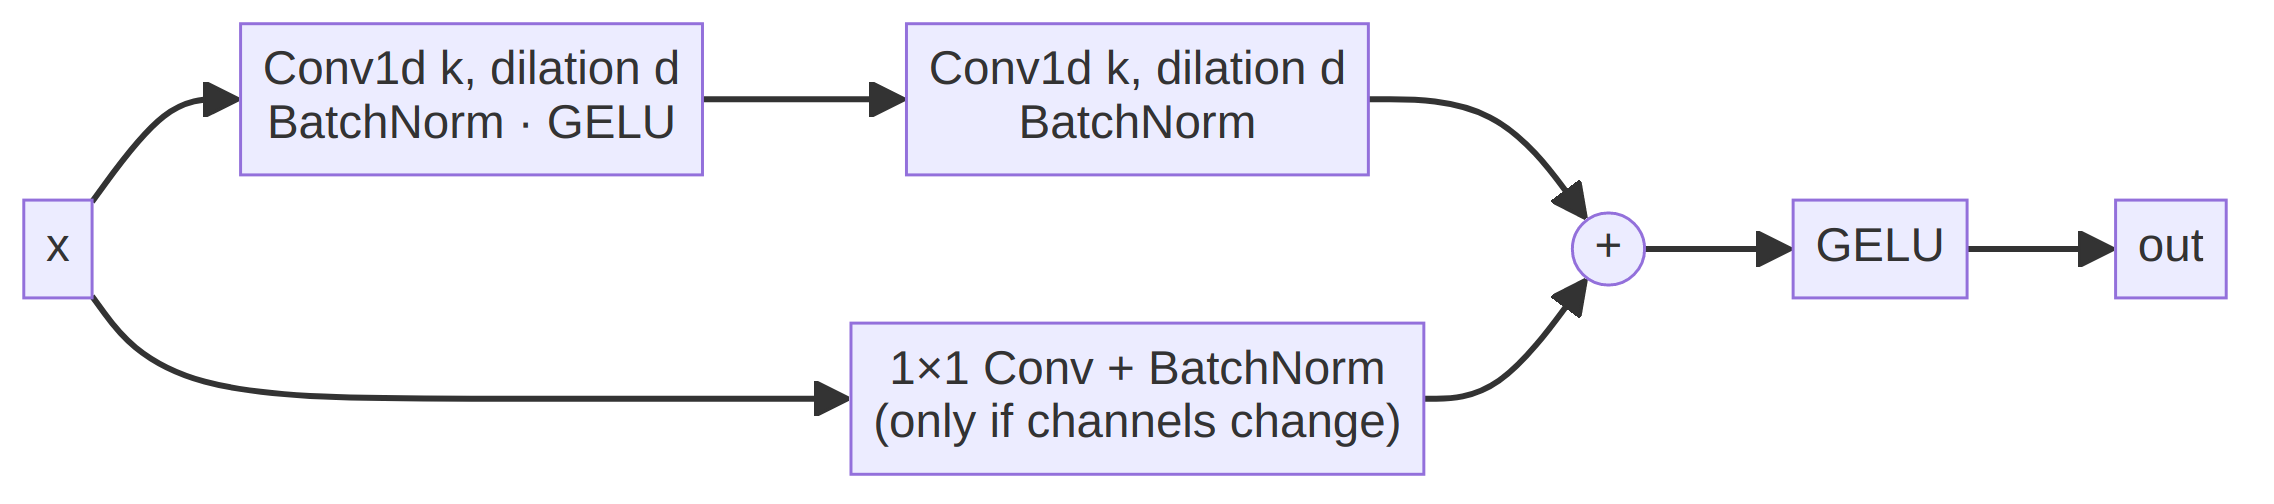
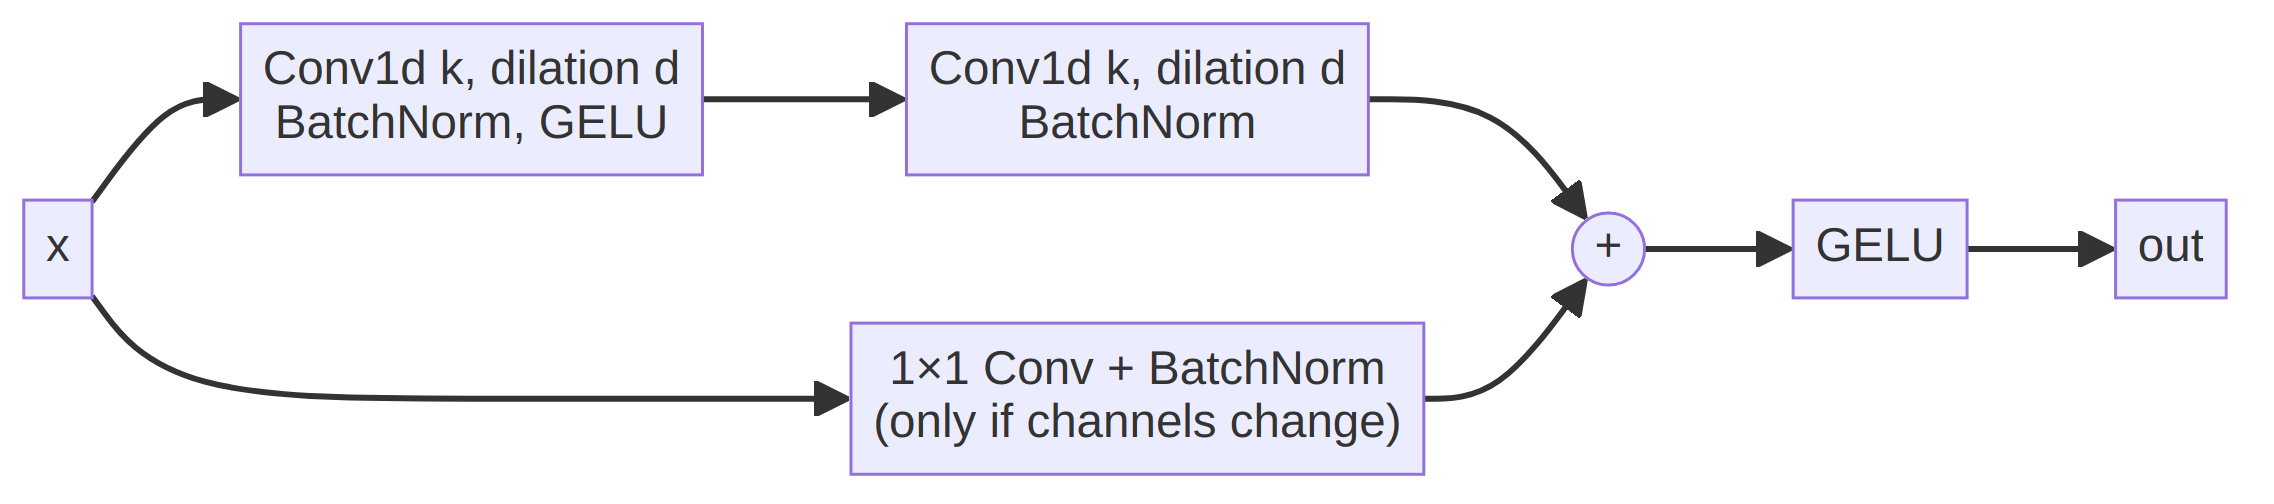
Replace middle-dot separators with commas and pipes across docs, diagrams and GUI

Changed region(s): [[0.0937, 0.2083, 0.3122, 0.2976]]

diff --git a/src/gui.py b/src/gui.py
@@ -163,7 +163,7 @@ class Scope(QWidget):
         p.setPen(QColor(T["muted"]))
         p.setFont(QFont(p.font().family(), 8))
         p.drawText(QRectF(plot.left(), 6, plot.width(), 18), Qt.AlignLeft,
-                   "grey band = injected disturbance   ·   orange = where the model looked   ·   "
+                   "grey band = injected disturbance   |   orange = where the model looked   |   "
                    "tag = model prediction (✓ correct, ✗ wrong)")
 
 
@@ -368,7 +368,7 @@ class MainWindow(QMainWindow):
         if not r or r["cls"] == NORMAL:
             return
         n = sum(r["preds"].values())
-        held = f"held {r['held']:.1f} s · " if r["held"] is not None else ""
+        held = f"held {r['held']:.1f} s, " if r["held"] is not None else ""
         verdict = ", ".join(f"{pretty(k)} ×{v}" for k, v in r["preds"].most_common())
         self.log.insertItem(0, f"{time.strftime('%H:%M:%S')}  {pretty(r['cls'])}: {held}{n} cycle"
                                f"{'s' if n > 1 else ''} → model said {verdict}")

diff --git a/src/make_figures.py b/src/make_figures.py
@@ -120,7 +120,7 @@ def faithfulness():
         ds = "XPQRS" if model.startswith("xpqrs_") else "PQD-16c"
         for method, r in methods.items():
             gap = r["10%"]["drop_top"] - r["10%"]["drop_random"]
-            rows.append((gap, f"{model.removeprefix('xpqrs_')} · {nice[method]}  [{ds}]", ds))
+            rows.append((gap, f"{model.removeprefix('xpqrs_')} | {nice[method]}  [{ds}]", ds))
     rows.sort()
     fig, ax = plt.subplots(figsize=(9, 5))
     ax.barh(range(len(rows)), [r[0] for r in rows], tick_label=[r[1] for r in rows],

diff --git a/docs/ARCHITECTURE.md b/docs/ARCHITECTURE.md
@@ -8,25 +8,25 @@ their `.mmd` sources.
 
 ```mermaid
 flowchart LR
-    subgraph DATA["1 · Data"]
-        A1[("XPQRS<br/>17 classes · 1 cycle")]
-        A2[("PQD-16c<br/>16 classes · 10 cycles")]
+    subgraph DATA["1 | Data"]
+        A1[("XPQRS<br/>17 classes, 1 cycle")]
+        A2[("PQD-16c<br/>16 classes, 10 cycles")]
     end
-    subgraph PREP["2 · Pre-processing  (src/data.py)"]
+    subgraph PREP["2 | Pre-processing  (src/data.py)"]
         B1["stratified split<br/>train / val / test"]
         B2["z-score with<br/>train mean & std only"]
     end
-    subgraph MODEL["3 · Classification"]
+    subgraph MODEL["3 | Classification"]
         C1["ResNet-CAM<br/>(src/models.py)"]
         C2["physics features → Extra-Trees<br/>(src/features.py)"]
     end
-    subgraph XAI["4 · Explanation"]
+    subgraph XAI["4 | Explanation"]
         D1["Integrated Gradients"]
         D2["Class Activation Map"]
         D3["Tree SHAP"]
     end
-    subgraph EVAL["5 · Trust checks"]
-        E1["accuracy · macro-F1<br/>confusion matrix"]
+    subgraph EVAL["5 | Trust checks"]
+        E1["accuracy, macro-F1<br/>confusion matrix"]
         E2["faithfulness<br/>deletion test"]
     end
     F["JSON summary<br/>→ LLM narration"]
@@ -59,7 +59,7 @@ free (Zhou et al. 2016). 455 k parameters.
 
 ```mermaid
 flowchart TB
-    IN["input signal<br/>1 × L<br/>(L = 100 XPQRS · 640 PQD-16c)"]
+    IN["input signal<br/>1 × L<br/>(L = 100 XPQRS, 640 PQD-16c)"]
     S["Conv1d k7, 64 ch → BatchNorm → GELU"]
     R1["Residual block 64→64, k7"]
     P1["MaxPool ÷2  →  L/2"]
@@ -72,7 +72,7 @@ flowchart TB
     DO["Dropout 0.3"]
     FC["Linear 128 → C classes"]
     OUT(["class probabilities"])
-    CAM(["CAM_c(t) = Σ_k w_ck · f_k(t)<br/>upsampled to L"])
+    CAM(["CAM_c(t) = Σ_k w_ck × f_k(t)<br/>upsampled to L"])
 
     IN --> S --> R1 --> P1 --> R2 --> P2 --> R3 --> R4 --> FM --> GAP --> DO --> FC --> OUT
     FM -. "feature maps f_k(t)" .-> CAM
@@ -83,7 +83,7 @@ flowchart TB
 
 ```mermaid
 flowchart LR
-    x["x"] --> c1["Conv1d k, dilation d<br/>BatchNorm · GELU"] --> c2["Conv1d k, dilation d<br/>BatchNorm"] --> add(("+")) --> g["GELU"] --> y["out"]
+    x["x"] --> c1["Conv1d k, dilation d<br/>BatchNorm, GELU"] --> c2["Conv1d k, dilation d<br/>BatchNorm"] --> add(("+")) --> g["GELU"] --> y["out"]
     x --> sk["1×1 Conv + BatchNorm<br/>(only if channels change)"] --> add
 ```
 
@@ -117,7 +117,7 @@ like an engineer's note: per-cycle RMS, minimum/maximum sliding RMS, time below
 | Batch | 64, gradient-norm clip 1.0 |
 | Loss | cross-entropy |
 | Model selection | best validation accuracy (ties → lower validation loss) |
-| Epochs / patience | PQD-16c 70 / 25 · XPQRS 40 / 15 |
+| Epochs / patience | PQD-16c 70 / 25, XPQRS 40 / 15 |
 | Threads | CPU only (4 threads) — no GPU needed |
 
 The test split is touched exactly once, after selection.
@@ -165,5 +165,5 @@ evidence.
 ├── dataset/                  XPQRS + PQD-16c CSVs, README
 ├── models/                   final checkpoints (+ legacy/ first-iteration ones)
 ├── outputs/benchmark/        results.jsonl, faithfulness.json
-└── docs/                     ARCHITECTURE · RESULTS · XAI · GUI, figures/, diagrams/, papers/
+└── docs/                     ARCHITECTURE, RESULTS, XAI, GUI, figures/, diagrams/, papers/
 ```

diff --git a/docs/GUI.md b/docs/GUI.md
@@ -41,7 +41,7 @@ python src/gui.py --speed 3       # slower playback (cycles per second, 1-25)
 |---|---|
 | Disturbance buttons (8 single + 8 combined) | hold to inject that class |
 | Speed slider | playback speed, 1–25 cycles per second |
-| Explanation menu | Integrated Gradients · Class Activation Map · none |
+| Explanation menu | Integrated Gradients, Class Activation Map, none |
 | Pause / Resume | freeze the scope to inspect a cycle |
 | ☾ Dark mode / ☀ Light mode | switch colour theme; the choice is remembered for the next start |
 
@@ -102,12 +102,12 @@ single cycles.
 
 ```mermaid
 flowchart LR
-    BTN["disturbance buttons<br/>pressed / released"] -->|press · release| ST["DisturbanceStream<br/>(src/stream.py)"]
+    BTN["disturbance buttons<br/>pressed / released"] -->|press, release| ST["DisturbanceStream<br/>(src/stream.py)"]
     BANK[("XPQRS test split<br/>zero-crossing synced<br/>one bank per class")] --> ST
-    TICK(["QTimer · every 30 ms"]) --> MW["MainWindow.tick<br/>(src/gui.py)"]
+    TICK(["QTimer, every 30 ms"]) --> MW["MainWindow.tick<br/>(src/gui.py)"]
     MW -->|"need a new cycle"| ST
     ST -->|"Cycle: 100 samples + true class"| LC["LiveClassifier<br/>ResNet-CAM + IG + CAM"]
-    LC -->|"prediction · top-3 · attributions"| MW
+    LC -->|"prediction, top-3, attributions"| MW
     MW -->|"reveal N samples / frame"| SC["Scope<br/>(QPainter oscilloscope)"]
     MW -->|"cycle finished"| PP["Prediction panel"]
     MW -->|"run of same class ends"| LOG["Event log"]

diff --git a/README.md b/README.md
@@ -8,7 +8,7 @@ explanations can be trusted**.
 | | XPQRS (17 classes) | PQD-16c (16 classes) |
 |---|---|---|
 | **ResNet-CAM test accuracy** | **98.3 %** (macro-F1 0.983) | **88.8 %** (macro-F1 0.880) |
-| Best baseline | 98.4 % · CNN-Complex, 3× the parameters | 87.8 % · CNN-Complex |
+| Best baseline | 98.4 %, CNN-Complex, 3× the parameters | 87.8 %, CNN-Complex |
 | Explanation | Class Activation Map + Integrated Gradients | same + Tree SHAP on physics features |
 
 * **One small, explainable model wins.** A 455 k-parameter ResNet with a
@@ -28,7 +28,7 @@ explanations can be trusted**.
 
 ```mermaid
 flowchart LR
-    A[("voltage waveform<br/>XPQRS · PQD-16c")] --> B["split + z-score<br/>(train stats only)"]
+    A[("voltage waveform<br/>XPQRS, PQD-16c")] --> B["split + z-score<br/>(train stats only)"]
     B --> C["ResNet-CAM<br/>classifier"]
     B --> C2["48 physics features<br/>→ Extra-Trees"]
     C --> D["CAM + Integrated<br/>Gradients"]
@@ -155,7 +155,7 @@ To use a newly trained model with `explain.py`, pass `--ckpt <path>`.
 ├── models/                   resnet_cam_xpqrs.pth, resnet_cam_pqd16.pth,
 │                             resnet_cam_xpqrs_sync.pth (GUI), legacy/
 ├── outputs/benchmark/        results.jsonl, faithfulness.json
-└── docs/                     ARCHITECTURE · RESULTS · XAI · GUI, figures/, diagrams/, papers/
+└── docs/                     ARCHITECTURE, RESULTS, XAI, GUI, figures/, diagrams/, papers/
 ```
 
 ## Documentation

diff --git a/docs/XAI.md b/docs/XAI.md
@@ -44,15 +44,15 @@ explanation identified evidence the model really uses. 160 test signals
 
 ![faithfulness](figures/faithfulness.png)
 
-| Model · method | gap @5 % | gap @10 % | gap @20 % |
+| Model, method | gap @5 % | gap @10 % | gap @20 % |
 |---|---|---|---|
-| feat_extra_trees · Tree SHAP (PQD-16c) | **0.27** | **0.38** | **0.37** |
-| cnn_res_bilstm · IG (PQD-16c) | 0.13 | 0.19 | 0.32 |
-| cnn_complex · IG (PQD-16c) | 0.10 | 0.15 | 0.28 |
-| resnet_cam · IG (PQD-16c) | 0.10 | 0.11 | 0.20 |
-| resnet_cam · CAM (PQD-16c) | 0.07 | 0.11 | 0.16 |
-| resnet_cam · IG (XPQRS) | 0.06 | 0.07 | 0.10 |
-| resnet_cam · CAM (XPQRS) | 0.03 | −0.03 | −0.17 |
+| feat_extra_trees, Tree SHAP (PQD-16c) | **0.27** | **0.38** | **0.37** |
+| cnn_res_bilstm, IG (PQD-16c) | 0.13 | 0.19 | 0.32 |
+| cnn_complex, IG (PQD-16c) | 0.10 | 0.15 | 0.28 |
+| resnet_cam, IG (PQD-16c) | 0.10 | 0.11 | 0.20 |
+| resnet_cam, CAM (PQD-16c) | 0.07 | 0.11 | 0.16 |
+| resnet_cam, IG (XPQRS) | 0.06 | 0.07 | 0.10 |
+| resnet_cam, CAM (XPQRS) | 0.03 | −0.03 | −0.17 |
 
 Findings:
 
